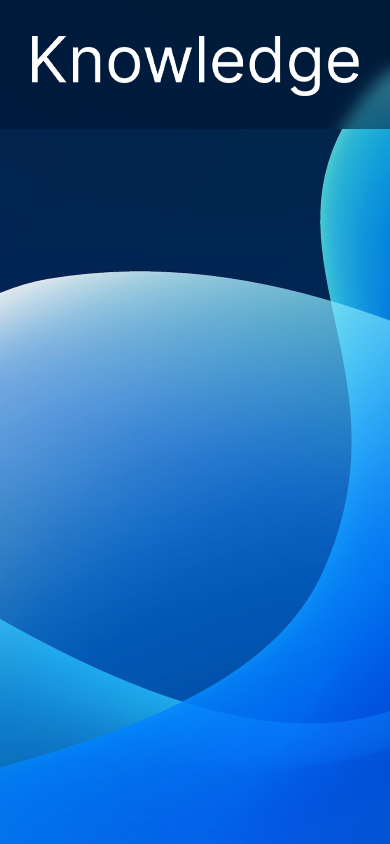
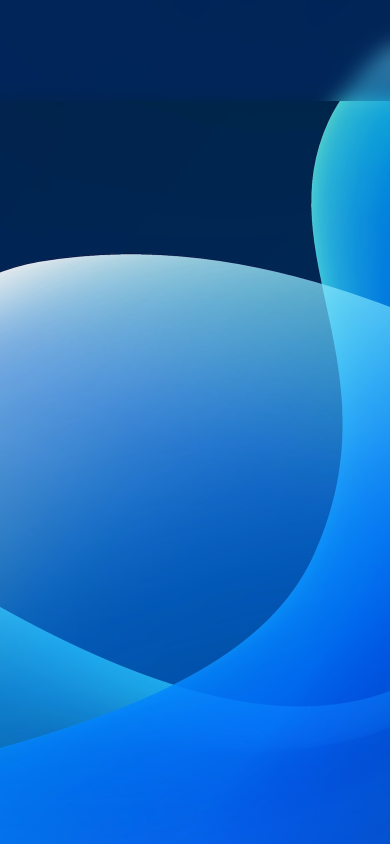
Finished <Knowledge/> component

Changed region(s): [[0.0, 0.0, 1.0, 0.4005], [0.0, 0.4005, 0.9231, 0.9242]]

diff --git a/src/App.css b/src/App.css
@@ -78,6 +78,8 @@
   height: 100vh;
   background-position: top right 10%;
   transition: background-image 1s;
+  overflow-x: hidden;
+  overflow-y: hidden;
 }
 .Home-light .Home-Content, .Home-dark .Home-Content {
   display: grid;
@@ -95,8 +97,8 @@
   font-size: 2.5rem;
   text-align: center;
   animation: fade-in-down 1.5s ease-in-out;
-  margin-left: 2rem;
-  margin-right: 2rem;
+  margin-left: 1.75rem;
+  margin-right: 1.75rem;
   font-weight: bold;
 }
 .Home-light .Home-Content .Content:nth-child(2), .Home-dark .Home-Content .Content:nth-child(2) {
@@ -250,6 +252,7 @@
 .Education-light, .Education-dark {
   max-width: 100vw;
   height: 100vh;
+  overflow-y: hidden;
   overflow-x: hidden;
 }
 .Education-light .Education-Content, .Education-dark .Education-Content {
@@ -394,6 +397,7 @@
   max-width: 100vw;
   height: 100vh;
   overflow-y: hidden;
+  overflow-x: hidden;
 }
 .Knowledge-light .Knowledge-Content, .Knowledge-dark .Knowledge-Content {
   margin-top: 43%;
@@ -401,12 +405,180 @@
   margin-right: 2rem;
 }
 .Knowledge-light .Knowledge-Content .Knowledge-Card-Main, .Knowledge-dark .Knowledge-Content .Knowledge-Card-Main {
-  height: 32rem;
+  height: 34rem;
   display: grid;
+  grid-template-areas: "react react typescript typescript typescript typescript" "gatsby gatsby gatsby leaflet leaflet leaflet" "sass sass sass css css css" "styled-components styled-components styled-components styled-components github github" "express express express mysql mysql mysql" "material-ui material-ui material-ui node node node" "responsive responsive responsive responsive bootstrap bootstrap";
+  opacity: 0;
+  padding-block: 2rem;
+  padding-inline: 1rem;
+  gap: 1rem;
   grid-auto-columns: 1fr;
-  grid-auto-rows: 50px;
-  grid-template-areas: "one" "two" "three" "four";
-  gap: 2rem;
+}
+.Knowledge-light .Knowledge-Content .Knowledge-Card-Main .Knowledge-Card-Content, .Knowledge-dark .Knowledge-Content .Knowledge-Card-Main .Knowledge-Card-Content {
+  opacity: 0;
+  border-color: #949494;
+}
+.Knowledge-light .Knowledge-Content .Knowledge-Card-Main .Knowledge-Card-Content a, .Knowledge-dark .Knowledge-Content .Knowledge-Card-Main .Knowledge-Card-Content a {
+  margin: auto;
+  text-decoration: none;
+}
+.Knowledge-light .Knowledge-Content .Knowledge-Card-Main .Knowledge-Card-Content:nth-child(1), .Knowledge-dark .Knowledge-Content .Knowledge-Card-Main .Knowledge-Card-Content:nth-child(1) {
+  grid-area: react;
+  transform: translateX(-100px);
+  opacity: 0;
+  transition: all 0.9s cubic-bezier(0.17, 0.55, 0.55, 1) 0.4s;
+}
+.Knowledge-light .Knowledge-Content .Knowledge-Card-Main .Knowledge-Card-Content:nth-child(2), .Knowledge-dark .Knowledge-Content .Knowledge-Card-Main .Knowledge-Card-Content:nth-child(2) {
+  grid-area: typescript;
+  transform: translateX(100px);
+  opacity: 0;
+  transition: all 0.9s cubic-bezier(0.17, 0.55, 0.55, 1) 0.4s;
+}
+.Knowledge-light .Knowledge-Content .Knowledge-Card-Main .Knowledge-Card-Content:nth-child(3), .Knowledge-dark .Knowledge-Content .Knowledge-Card-Main .Knowledge-Card-Content:nth-child(3) {
+  grid-area: gatsby;
+  transform: translateX(-100px);
+  opacity: 0;
+  transition: all 0.9s cubic-bezier(0.17, 0.55, 0.55, 1) 0.4s;
+}
+.Knowledge-light .Knowledge-Content .Knowledge-Card-Main .Knowledge-Card-Content:nth-child(4), .Knowledge-dark .Knowledge-Content .Knowledge-Card-Main .Knowledge-Card-Content:nth-child(4) {
+  grid-area: leaflet;
+  transform: translateX(100px);
+  opacity: 0;
+  transition: all 0.9s cubic-bezier(0.17, 0.55, 0.55, 1) 0.4s;
+}
+.Knowledge-light .Knowledge-Content .Knowledge-Card-Main .Knowledge-Card-Content:nth-child(5), .Knowledge-dark .Knowledge-Content .Knowledge-Card-Main .Knowledge-Card-Content:nth-child(5) {
+  grid-area: sass;
+  transform: translateX(-100px);
+  opacity: 0;
+  transition: all 0.9s cubic-bezier(0.17, 0.55, 0.55, 1) 0.4s;
+}
+.Knowledge-light .Knowledge-Content .Knowledge-Card-Main .Knowledge-Card-Content:nth-child(6), .Knowledge-dark .Knowledge-Content .Knowledge-Card-Main .Knowledge-Card-Content:nth-child(6) {
+  grid-area: css;
+  transform: translateX(100px);
+  opacity: 0;
+  transition: all 0.9s cubic-bezier(0.17, 0.55, 0.55, 1) 0.4s;
+}
+.Knowledge-light .Knowledge-Content .Knowledge-Card-Main .Knowledge-Card-Content:nth-child(7), .Knowledge-dark .Knowledge-Content .Knowledge-Card-Main .Knowledge-Card-Content:nth-child(7) {
+  grid-area: express;
+  transform: translateX(-100px);
+  opacity: 0;
+  transition: all 0.9s cubic-bezier(0.17, 0.55, 0.55, 1) 0.4s;
+}
+.Knowledge-light .Knowledge-Content .Knowledge-Card-Main .Knowledge-Card-Content:nth-child(8), .Knowledge-dark .Knowledge-Content .Knowledge-Card-Main .Knowledge-Card-Content:nth-child(8) {
+  grid-area: mysql;
+  transform: translateX(100px);
+  opacity: 0;
+  transition: all 0.9s cubic-bezier(0.17, 0.55, 0.55, 1) 0.4s;
+}
+.Knowledge-light .Knowledge-Content .Knowledge-Card-Main .Knowledge-Card-Content:nth-child(9), .Knowledge-dark .Knowledge-Content .Knowledge-Card-Main .Knowledge-Card-Content:nth-child(9) {
+  grid-area: material-ui;
+  transform: translateX(-100px);
+  opacity: 0;
+  transition: all 0.9s cubic-bezier(0.17, 0.55, 0.55, 1) 0.4s;
+}
+.Knowledge-light .Knowledge-Content .Knowledge-Card-Main .Knowledge-Card-Content:nth-child(10), .Knowledge-dark .Knowledge-Content .Knowledge-Card-Main .Knowledge-Card-Content:nth-child(10) {
+  grid-area: node;
+  transform: translateX(100px);
+  opacity: 0;
+  transition: all 0.9s cubic-bezier(0.17, 0.55, 0.55, 1) 0.4s;
+}
+.Knowledge-light .Knowledge-Content .Knowledge-Card-Main .Knowledge-Card-Content:nth-child(11), .Knowledge-dark .Knowledge-Content .Knowledge-Card-Main .Knowledge-Card-Content:nth-child(11) {
+  grid-area: responsive;
+  transform: translateX(-100px);
+  opacity: 0;
+  transition: all 0.9s cubic-bezier(0.17, 0.55, 0.55, 1) 0.4s;
+}
+.Knowledge-light .Knowledge-Content .Knowledge-Card-Main .Knowledge-Card-Content:nth-child(12), .Knowledge-dark .Knowledge-Content .Knowledge-Card-Main .Knowledge-Card-Content:nth-child(12) {
+  grid-area: bootstrap;
+  transform: translateX(100px);
+  opacity: 0;
+  transition: all 0.9s cubic-bezier(0.17, 0.55, 0.55, 1) 0.4s;
+}
+.Knowledge-light .Knowledge-Content .Knowledge-Card-Main .Knowledge-Card-Content:nth-child(13), .Knowledge-dark .Knowledge-Content .Knowledge-Card-Main .Knowledge-Card-Content:nth-child(13) {
+  grid-area: styled-components;
+  transform: translateX(-100px);
+  opacity: 0;
+  transition: all 0.9s cubic-bezier(0.17, 0.55, 0.55, 1) 0.4s;
+}
+.Knowledge-light .Knowledge-Content .Knowledge-Card-Main .Knowledge-Card-Content:nth-child(14), .Knowledge-dark .Knowledge-Content .Knowledge-Card-Main .Knowledge-Card-Content:nth-child(14) {
+  grid-area: github;
+  transform: translateX(100px);
+  opacity: 0;
+  transition: all 0.9s cubic-bezier(0.17, 0.55, 0.55, 1) 0.4s;
+}
+.Knowledge-light .Knowledge-Content .Knowledge-Card-Main .Knowledge-Card-Content:nth-child(1).Appear, .Knowledge-dark .Knowledge-Content .Knowledge-Card-Main .Knowledge-Card-Content:nth-child(1).Appear {
+  transform: translateX(0);
+  opacity: 1;
+  transition: all 0.9s cubic-bezier(0.17, 0.55, 0.55, 1) 0.4s;
+}
+.Knowledge-light .Knowledge-Content .Knowledge-Card-Main .Knowledge-Card-Content:nth-child(2).Appear, .Knowledge-dark .Knowledge-Content .Knowledge-Card-Main .Knowledge-Card-Content:nth-child(2).Appear {
+  transform: translateX(0);
+  opacity: 1;
+  transition: all 0.9s cubic-bezier(0.17, 0.55, 0.55, 1) 0.4s;
+}
+.Knowledge-light .Knowledge-Content .Knowledge-Card-Main .Knowledge-Card-Content:nth-child(3).Appear, .Knowledge-dark .Knowledge-Content .Knowledge-Card-Main .Knowledge-Card-Content:nth-child(3).Appear {
+  transform: translateX(0);
+  opacity: 1;
+  transition: all 0.9s cubic-bezier(0.17, 0.55, 0.55, 1) 0.4s;
+}
+.Knowledge-light .Knowledge-Content .Knowledge-Card-Main .Knowledge-Card-Content:nth-child(4).Appear, .Knowledge-dark .Knowledge-Content .Knowledge-Card-Main .Knowledge-Card-Content:nth-child(4).Appear {
+  transform: translateX(0);
+  opacity: 1;
+  transition: all 0.9s cubic-bezier(0.17, 0.55, 0.55, 1) 0.4s;
+}
+.Knowledge-light .Knowledge-Content .Knowledge-Card-Main .Knowledge-Card-Content:nth-child(5).Appear, .Knowledge-dark .Knowledge-Content .Knowledge-Card-Main .Knowledge-Card-Content:nth-child(5).Appear {
+  transform: translateX(0);
+  opacity: 1;
+  transition: all 0.9s cubic-bezier(0.17, 0.55, 0.55, 1) 0.4s;
+}
+.Knowledge-light .Knowledge-Content .Knowledge-Card-Main .Knowledge-Card-Content:nth-child(6).Appear, .Knowledge-dark .Knowledge-Content .Knowledge-Card-Main .Knowledge-Card-Content:nth-child(6).Appear {
+  transform: translateX(0);
+  opacity: 1;
+  transition: all 0.9s cubic-bezier(0.17, 0.55, 0.55, 1) 0.4s;
+}
+.Knowledge-light .Knowledge-Content .Knowledge-Card-Main .Knowledge-Card-Content:nth-child(7).Appear, .Knowledge-dark .Knowledge-Content .Knowledge-Card-Main .Knowledge-Card-Content:nth-child(7).Appear {
+  transform: translateX(0);
+  opacity: 1;
+  transition: all 0.9s cubic-bezier(0.17, 0.55, 0.55, 1) 0.4s;
+}
+.Knowledge-light .Knowledge-Content .Knowledge-Card-Main .Knowledge-Card-Content:nth-child(8).Appear, .Knowledge-dark .Knowledge-Content .Knowledge-Card-Main .Knowledge-Card-Content:nth-child(8).Appear {
+  transform: translateX(0);
+  opacity: 1;
+  transition: all 0.9s cubic-bezier(0.17, 0.55, 0.55, 1) 0.4s;
+}
+.Knowledge-light .Knowledge-Content .Knowledge-Card-Main .Knowledge-Card-Content:nth-child(9).Appear, .Knowledge-dark .Knowledge-Content .Knowledge-Card-Main .Knowledge-Card-Content:nth-child(9).Appear {
+  transform: translateX(0);
+  opacity: 1;
+  transition: all 0.9s cubic-bezier(0.17, 0.55, 0.55, 1) 0.4s;
+}
+.Knowledge-light .Knowledge-Content .Knowledge-Card-Main .Knowledge-Card-Content:nth-child(10).Appear, .Knowledge-dark .Knowledge-Content .Knowledge-Card-Main .Knowledge-Card-Content:nth-child(10).Appear {
+  transform: translateX(0);
+  opacity: 1;
+  transition: all 0.9s cubic-bezier(0.17, 0.55, 0.55, 1) 0.4s;
+}
+.Knowledge-light .Knowledge-Content .Knowledge-Card-Main .Knowledge-Card-Content:nth-child(11).Appear, .Knowledge-dark .Knowledge-Content .Knowledge-Card-Main .Knowledge-Card-Content:nth-child(11).Appear {
+  transform: translateX(0);
+  opacity: 1;
+  transition: all 0.9s cubic-bezier(0.17, 0.55, 0.55, 1) 0.4s;
+}
+.Knowledge-light .Knowledge-Content .Knowledge-Card-Main .Knowledge-Card-Content:nth-child(12).Appear, .Knowledge-dark .Knowledge-Content .Knowledge-Card-Main .Knowledge-Card-Content:nth-child(12).Appear {
+  transform: translateX(0);
+  opacity: 1;
+  transition: all 0.9s cubic-bezier(0.17, 0.55, 0.55, 1) 0.4s;
+}
+.Knowledge-light .Knowledge-Content .Knowledge-Card-Main .Knowledge-Card-Content:nth-child(13).Appear, .Knowledge-dark .Knowledge-Content .Knowledge-Card-Main .Knowledge-Card-Content:nth-child(13).Appear {
+  transform: translateX(0);
+  opacity: 1;
+  transition: all 0.9s cubic-bezier(0.17, 0.55, 0.55, 1) 0.4s;
+}
+.Knowledge-light .Knowledge-Content .Knowledge-Card-Main .Knowledge-Card-Content:nth-child(14).Appear, .Knowledge-dark .Knowledge-Content .Knowledge-Card-Main .Knowledge-Card-Content:nth-child(14).Appear {
+  transform: translateX(0);
+  opacity: 1;
+  transition: all 0.9s cubic-bezier(0.17, 0.55, 0.55, 1) 0.4s;
+}
+.Knowledge-light .Knowledge-Content .Knowledge-Card-Main.Appear, .Knowledge-dark .Knowledge-Content .Knowledge-Card-Main.Appear {
+  transition: all 0.9s cubic-bezier(0.17, 0.55, 0.55, 1) 0.4s, background-color 1s;
+  opacity: 1;
 }
 
 .Knowledge-dark {
@@ -419,6 +591,14 @@
   background-color: rgba(0, 0, 0, 0.8);
   transition: background-color 1s, color 1s;
 }
+.Knowledge-dark .Knowledge-Card-Main .Knowledge-Card-Content {
+  background-color: rgba(102, 102, 102, 0.8);
+  transition: color 1s, background-color 1s;
+}
+.Knowledge-dark .Knowledge-Card-Main .Knowledge-Card-Content a {
+  color: white;
+  transition: color 1s;
+}
 
 .Knowledge-light {
   background-image: url(./assets/Knowledge-Background-White-Small.png);
@@ -430,6 +610,14 @@
   background-color: white;
   color: black;
   transition: background-color 1s, color 1s;
+}
+.Knowledge-light .Knowledge-Card-Main .Knowledge-Card-Content {
+  background-color: #e6e6e6;
+  transition: color 1s, background-color 1s;
+}
+.Knowledge-light .Knowledge-Card-Main .Knowledge-Card-Content a {
+  color: black;
+  transition: color 1s;
 }
 
 /*# sourceMappingURL=App.css.map */

diff --git a/src/App.scss b/src/App.scss
@@ -490,8 +490,18 @@
   overflow-y: hidden;
   overflow-x: hidden;
 
+  .Knowledge-Title {
+    p {
+      font-size: 3.5rem;
+      text-align: center;
+      margin-top: 0.5rem;
+      color: white;
+      transition: color 1s;
+    }
+  }
+
   .Knowledge-Content {
-    margin-top: 43%;
+    margin-top: 13%;
     margin-left: 2rem;
     margin-right: 2rem;
 
@@ -512,9 +522,11 @@
       padding-inline: 1rem;
       gap: 1rem;
       grid-auto-columns: 1fr;
+
       .Knowledge-Card-Content {
         opacity: 0;
         border-color: #949494;
+
         a {
           margin: auto;
           text-decoration: none;
@@ -612,18 +624,18 @@
         transition: all 0.9s cubic-bezier(0.17, 0.55, 0.55, 1) 0.4s;
       }
 
-        .Knowledge-Card-Content:nth-child(14) {
-          grid-area: github;
-          transform: translateX(100px);
-          opacity: 0;
-          transition: all 0.9s cubic-bezier(0.17, 0.55, 0.55, 1) 0.4s;
-        }
+      .Knowledge-Card-Content:nth-child(14) {
+        grid-area: github;
+        transform: translateX(100px);
+        opacity: 0;
+        transition: all 0.9s cubic-bezier(0.17, 0.55, 0.55, 1) 0.4s;
+      }
 
-        .Knowledge-Card-Content:nth-child(1).Appear {
-          transform: translateX(0);
-          opacity: 1;
-          transition: all 0.9s cubic-bezier(0.17, 0.55, 0.55, 1) 0.4s;
-        }
+      .Knowledge-Card-Content:nth-child(1).Appear {
+        transform: translateX(0);
+        opacity: 1;
+        transition: all 0.9s cubic-bezier(0.17, 0.55, 0.55, 1) 0.4s;
+      }
 
       .Knowledge-Card-Content:nth-child(2).Appear {
         transform: translateX(0);
@@ -725,6 +737,7 @@
     .Knowledge-Card-Content {
       background-color: lighten(rgba(0, 0, 0, 0.8), 40%);
       transition: color 1s, background-color 1s;
+
       a {
         color: white;
         transition: color 1s;

diff --git a/src/Components/Knowledge.js b/src/Components/Knowledge.js
@@ -114,6 +114,7 @@ function Knowledge(props) {
 
     return (
         <div className={`Knowledge-${themeMode}`}>
+            <div className={'Knowledge-Title'}><p>Knowledge</p></div>
             <div className={'Knowledge-Content'}>
                 <Card className={`Knowledge-Card-Main ${isInViewInfo}`} ref={isInViewRef}>
                     <Card className={`Knowledge-Card-Content ${isInViewInfo2}`} ref={isInViewRef2}>
